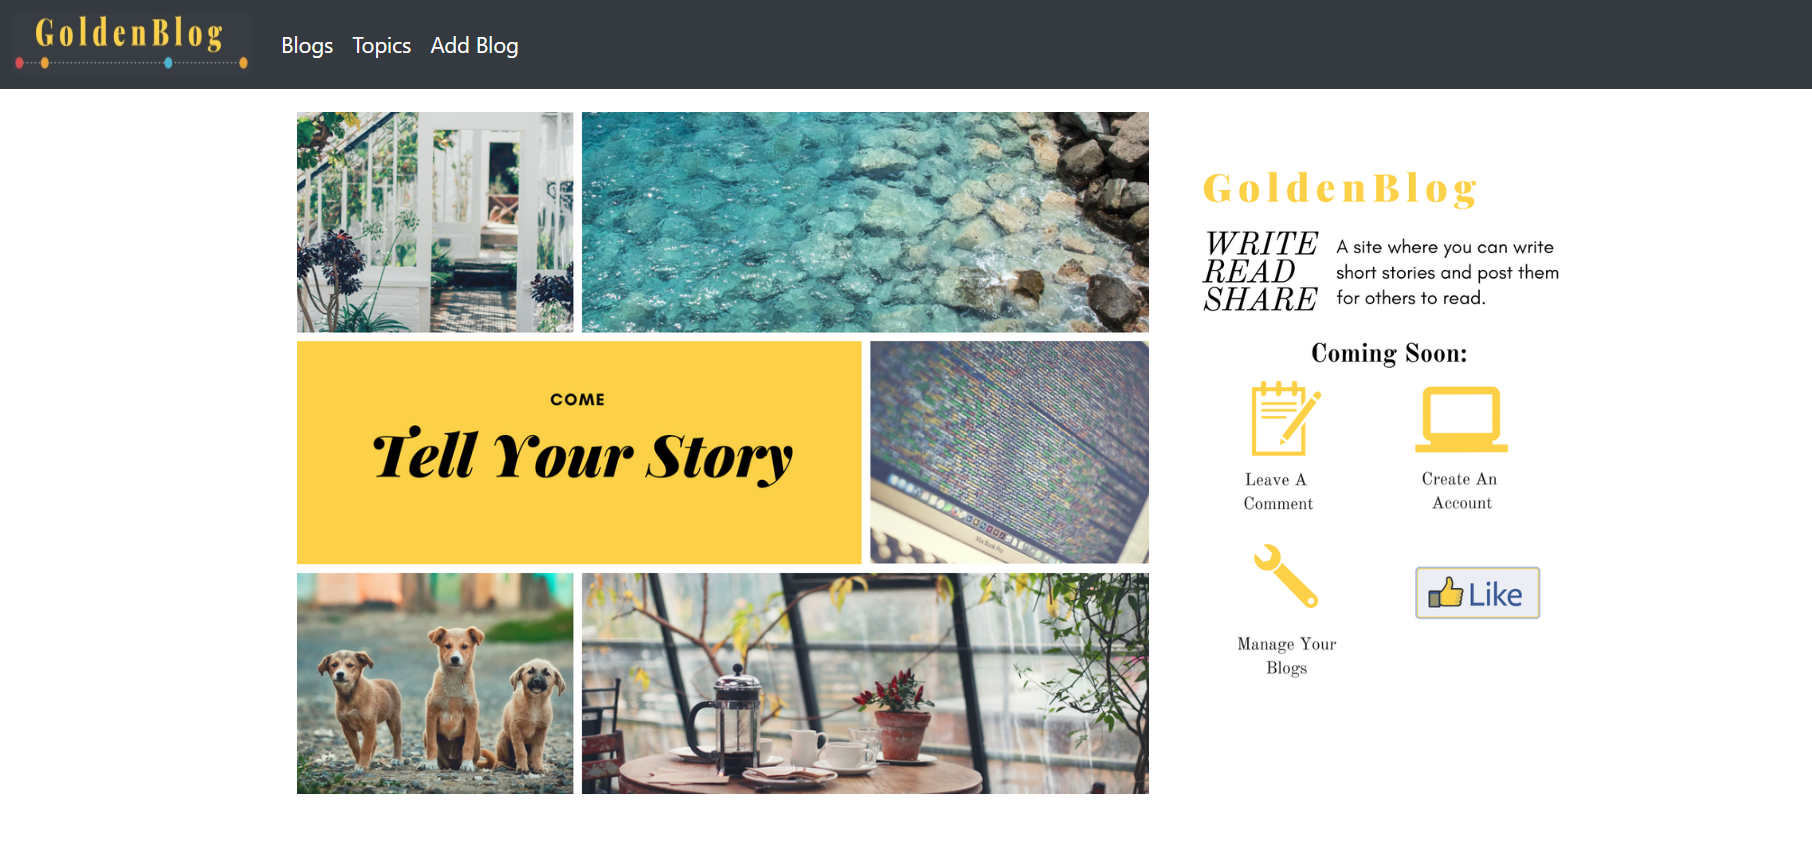
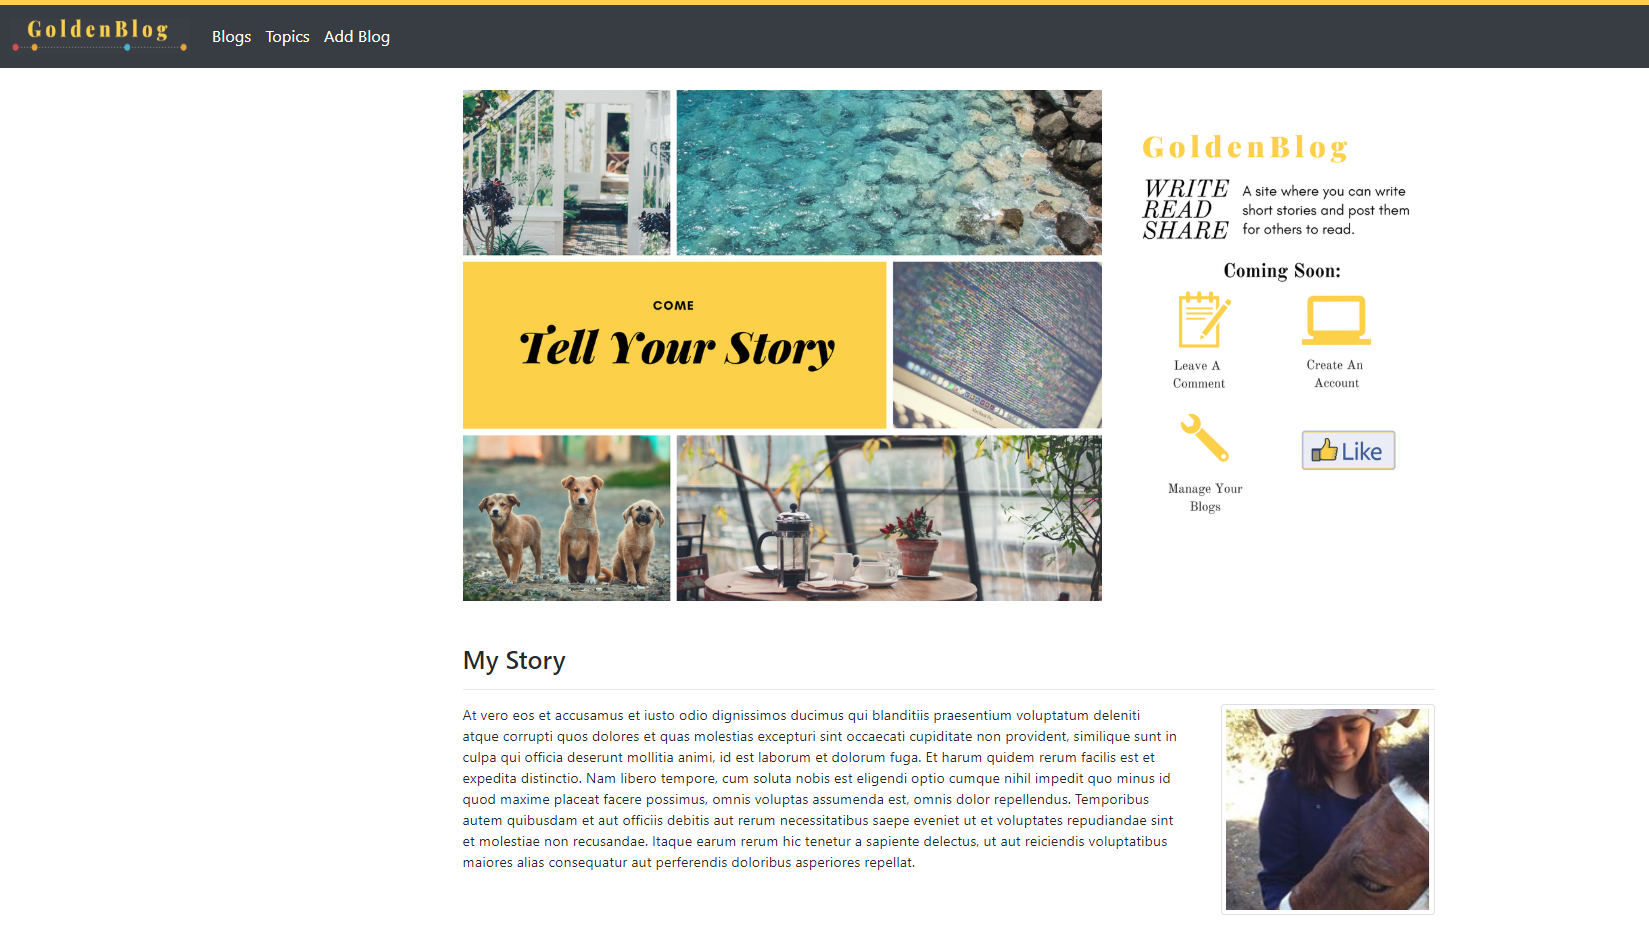
css changes

diff --git a/src/app/home/home.component.html b/src/app/home/home.component.html
@@ -7,11 +7,12 @@
       <img src="../assets/images/Goldenblog.jpg" alt="Features" class="img-fluid">
     </div>
   </div>
-  <!-- <div class="row">
+  <div class="row">
+    <hr>
     <div class="col-12 mt-5">
+      <h3>My Story</h3>
       <hr>
-      <p class="float-left">At vero eos et accusamus et iusto odio dignissimos ducimus qui blanditiis praesentium voluptatum deleniti atque corrupti quos dolores et quas molestias excepturi sint occaecati cupiditate non provident, similique sunt in culpa qui officia deserunt mollitia animi, id est laborum et dolorum fuga. Et harum quidem rerum facilis est et expedita distinctio. Nam libero tempore, cum soluta nobis est eligendi optio cumque nihil impedit quo minus id quod maxime placeat facere possimus, omnis voluptas assumenda est, omnis dolor repellendus. Temporibus autem quibusdam et aut officiis debitis aut rerum necessitatibus saepe eveniet ut et voluptates repudiandae sint et molestiae non recusandae. Itaque earum rerum hic tenetur a sapiente delectus, ut aut reiciendis voluptatibus maiores alias consequatur aut perferendis doloribus asperiores repellat.</p>
-      <img src="../assets/images/me.JPG" alt="Cristina Zhang" class="img-thumbnail float-right img-fluid">
+      <p><img src="../assets/images/me.JPG" alt="Cristina Zhang" class="img-thumbnail img-fluid float-right ml-5">At vero eos et accusamus et iusto odio dignissimos ducimus qui blanditiis praesentium voluptatum deleniti atque corrupti quos dolores et quas molestias excepturi sint occaecati cupiditate non provident, similique sunt in culpa qui officia deserunt mollitia animi, id est laborum et dolorum fuga. Et harum quidem rerum facilis est et expedita distinctio. Nam libero tempore, cum soluta nobis est eligendi optio cumque nihil impedit quo minus id quod maxime placeat facere possimus, omnis voluptas assumenda est, omnis dolor repellendus. Temporibus autem quibusdam et aut officiis debitis aut rerum necessitatibus saepe eveniet ut et voluptates repudiandae sint et molestiae non recusandae. Itaque earum rerum hic tenetur a sapiente delectus, ut aut reiciendis voluptatibus maiores alias consequatur aut perferendis doloribus asperiores repellat.</p>
     </div>
-  </div> -->
+  </div>
 </div>

diff --git a/src/app/header/header.component.html b/src/app/header/header.component.html
@@ -1,19 +1,19 @@
 
 <nav class="navbar navbar-dark bg-dark fixed-top">
-  <a class="navbar-brand navbar-brand gold"routerLink="/"><img src="../assets/images/logo.JPG" style="width:200px; height: 50px; margin:0px;" alt=""></a>
+  <a class="navbar-brand navbar-brand gold"routerLink="/"><img src="../assets/images/logo.JPG" style="width:230px; height: 40px;" alt=""></a>
   <div class="navbar-expand">
     <div class="navbar-nav">
       <!-- <a class="nav-link" routerLink="/">Home</a> -->
-      <a class="nav-link text-white" routerLink="/blogs">Blogs</a>
+      <a class="nav-link text-white ml-2" routerLink="/blogs">Blogs</a>
       <a class="nav-link text-white" routerLink="/topics">Topics</a>
       <a class="nav-link text-white" routerLink="/addBlog">Add Blog</a>
     </div>
   </div>
   <div class="navbar-expand ml-auto navbar-nav">
-    <div class="navbar-nav">
+    <!-- <div class="navbar-nav">
       <a class="nav-item nav-link" href="https://github.com/rami0141" target="_blank">
-        <i class="fa fa-github"></i>
+        <a class="text-white m-5 mt-3 icon" href="https://github.com/rami0141/GoldenBlogger" target="_blank"><i class="fab fa-github fa-2x text-white"></i></a>
       </a>
-    </div>
+    </div> -->
   </div>
 </nav>

diff --git a/src/app/blog/create-new-blog/instructions/instructions.component.html b/src/app/blog/create-new-blog/instructions/instructions.component.html
@@ -1,7 +1,3 @@
-<div class="card mb-4 gold">
-  <div class="card-body text-center">
-    <h2>Time to be creative!</h2>
-    <h6>Write a short story or blog about anything you like.</h6>
-    <h6>Fill out the form below and post it so others can read it and comment on your post.</h6>
-  </div>
-</div>
+<img src="../assets/images/directions.jpg" alt="Instructions" class="mb-5 img-fluid">
+<h3 class="center">Get Creative</h3>
+<!-- <p class="centerB">Fill out the form below and post your story for others to read.</p> -->

diff --git a/src/index.html b/src/index.html
@@ -5,7 +5,8 @@
   <title>GoldenBlog</title>
   <base href="/">
   <meta name="viewport" content="width=device-width, initial-scale=1">
-  <link rel="icon" type="image/x-icon" href="favicon.ico">
+  <link rel="stylesheet" href="path/to/font-awesome/css/font-awesome.min.css">
+  <script defer src="https://use.fontawesome.com/releases/v5.0.10/js/all.js" integrity="sha384-slN8GvtUJGnv6ca26v8EzVaR9DC58QEwsIk9q1QXdCU8Yu8ck/tL/5szYlBbqmS+" crossorigin="anonymous"></script>
 </head>
 <body>
   <app-root></app-root>

diff --git a/src/app/blog/create-new-blog/instructions/instructions.component.css b/src/app/blog/create-new-blog/instructions/instructions.component.css
@@ -1,7 +1,13 @@
-.gold {
-  background-color: black;
-  color: white;
-  font-size: 22px;
-  border: 4px solid #FED148;
-  opacity: 0.8;
+.center {
+    position: absolute;
+    top: 36%;
+    left: 28%;
+    transform: translate(-50%, -50%);
+}
+
+img {
+  position: relative;
+  width: 100%;
+  height: 150px;
+  /* border: 7px solid black; */
 }
